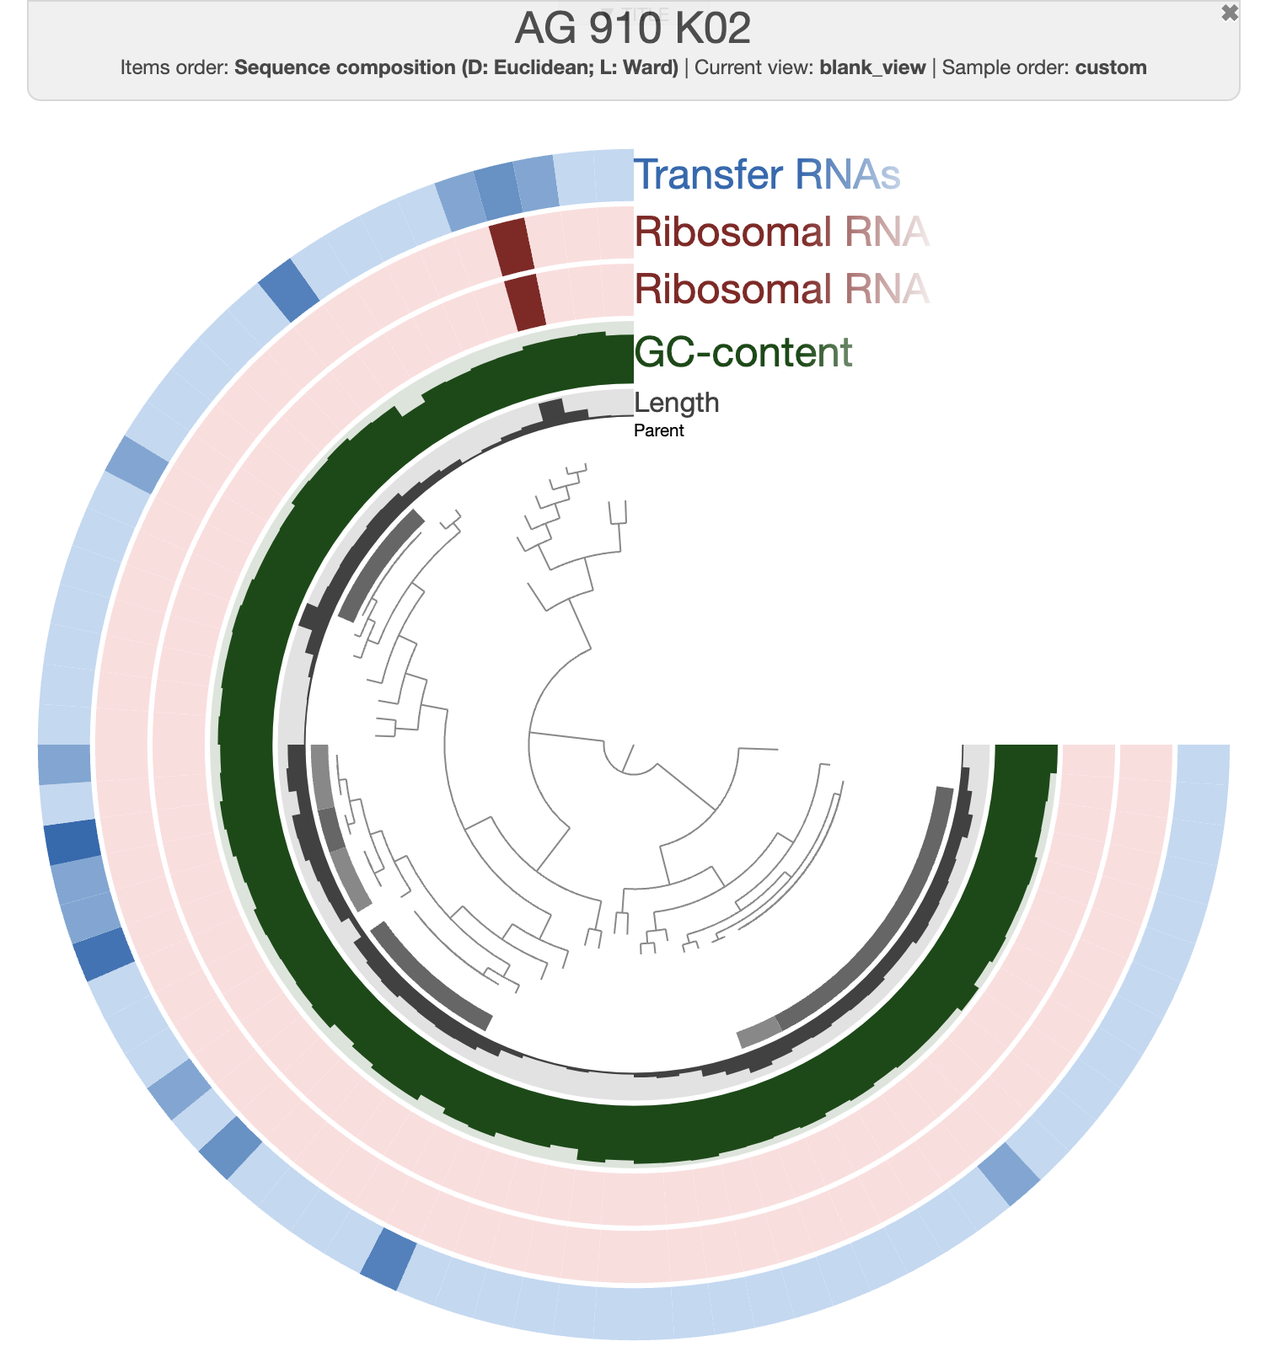
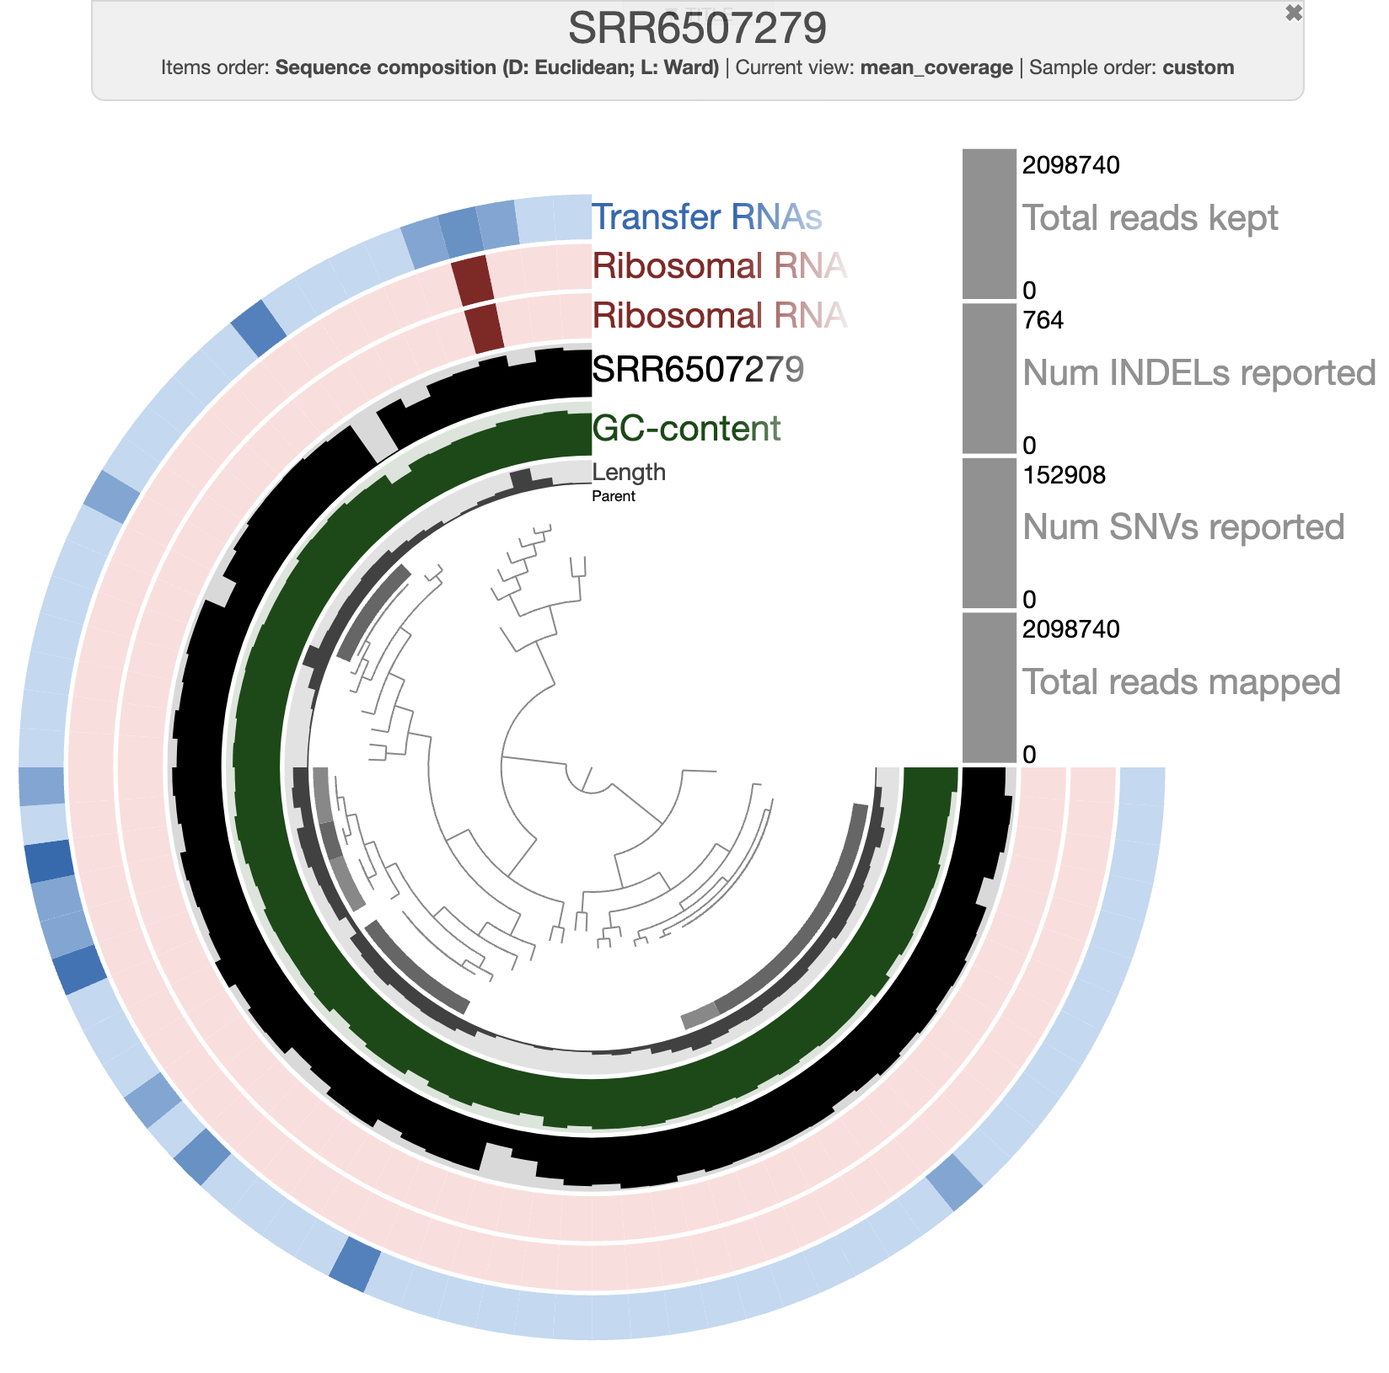
single cell tutorial update

diff --git a/tutorials/single-cell-genomics-workshop/index.md b/tutorials/single-cell-genomics-workshop/index.md
@@ -15,13 +15,11 @@ comments: true
 
 **The purpose of this workflow** is to learn how to integrate single-cell genomics data into the anvi'o environment. Here is a list of topics that are covered here:
 
- * Create a {% include ARTIFACT name="contigs-db" %} with one single amplified genome (SAG).
- * Use single-copy core genes to estimate completion and redundancy.
- * Assign taxonomy using single-copy core gene and [GTDB](https://gtdb.ecogenomic.org/).
- * Annotate open reading frames with function.
- * Make a phylogenomic tree.
- * Compute a pangenomic analysis.
- * Compare SAGs using average nucleotide identity.
+ * Create a {% include ARTIFACT name="contigs-db" %} and use functional and taxonomic assignment.
+ * Estimate taxonomy, completion/redudancy and metabolic pathway completeness across multiple SAG.
+ * Generate and decorate a phylogenomic tree using ribosomal proteins.
+ * Generate a pangenome and compare SAR11 SAGs with reference genome. Add ANI and metabolic information to the pangenome.
+ * Introduction to read recruitment of metagenome on a SAG.
 
  {:.notice}
  If you have any questions about this exercise, or have ideas to make it better, please feel free to get in touch with the anvi'o community through our Discord server:
@@ -38,7 +36,7 @@ comments: true
 First, open your terminal, `cd` to a working directory, and download the data pack we have stored online for you:
 
 ``` bash
-curl -L https://figshare.com/ndownloader/files/45398392 \
+curl -L https://figshare.com/ndownloader/files/45483060 \
     -o SCG_workshop.tar.gz
 ```
 
@@ -81,12 +79,12 @@ After clicking on the Draw button, you should see this:
 
 {% include IMAGE path="/images/single-cell-genomics-workshop/01_visualize_SAG_01.png" width=80 %}
 
-The organization of the contigs is based on their tetra-nucleotide frequency. The outer layers represent the GC content, presence of 16S and 23S rRNA as well as tRNAs.
+The organization of the contigs is based on their tetra-nucleotide frequency. The outer layers represent the GC content, presence of 16S and 23S rRNA as well as tRNAs. The black layers represent the mean coverage of the metagenome SRR6507279 (the metagenome associated with the sample use to generate the SAG).
 You can click on any part of the dendrogram to create bins. Go ahead and select all branches in the interface and go to the Bin's tab in the setting panel. There, you will see the total size of the bin you have just created. You will also see the completion and redundancy estimation.
 
 {% include IMAGE path="/images/single-cell-genomics-workshop/01_visualize_SAG_02.png" width=80 %}
 
-If you check the box for "Realtime taxonomy estimation for bins" you will even see the taxonomy estimation for your SAG. For more information you can click on "Recalculate/Show taxonomy for bins", there you will be able to see the detailed taxonomic assignation for each single-copy core genes were use for taxonomy estimation.
+If you check the box for "Realtime taxonomy estimation for bins" you will even see the taxonomy estimation for your SAG. For more information you can click on "Recalculate/Show taxonomy for bins", there you will be able to see the detailed taxonomic assignment for each single-copy core genes were use for taxonomy estimation.
 
 {% include IMAGE path="/images/single-cell-genomics-workshop/01_visualize_SAG_03.png" width=80 %}
 
@@ -94,9 +92,13 @@ Since we ran {% include PROGRAM name="anvi-run-ncbi-cogs" %} and {% include PROG
 
 {% include IMAGE path="/images/single-cell-genomics-workshop/01_visualize_SAG_04.png" width=80 %}
 
-Right click on the highlighted split and select "inspect split". I will open an inspection page as a new tab on your browser. The original purpose of that inspection page is to display the coverage plot if you have read-recruitment results and genomic context (ORF information, functions, blast option). Because we are using a blank {% include ARTIFACT name="profile-db" %}, there are no coverage plot to display. But we can still use this function to have a look at the ORFs found in this part of the SAG. If you click on the genes (arrows) you will see information about contig's position, length, orientation, DNA and AA sequence, quick blast options, and functional annotation if available.
+Right click on the highlighted split and select "inspect split". It will open an inspection page as a new tab on your browser. Here you will see the read coverage along a fraction of the genome:
 
 {% include IMAGE path="/images/single-cell-genomics-workshop/01_visualize_SAG_05.png" width=80 %}
+
+On the bottom part of the interface, you can see the ORFs and you can click on them to display information about contig's position, length, orientation, DNA and AA sequence, quick blast options, and functional annotation when available.
+
+{% include IMAGE path="/images/single-cell-genomics-workshop/01_visualize_SAG_06.png" width=80 %}
 
 {:.notice}
 The gene's arrows are colored based on their COG CATEGORY. If you want to change the colors, open the right side setting panel and scroll down to "Genes". Select how you want to color the genes. You can even change individual colors.
@@ -210,7 +212,7 @@ anvi-estimate-genome-completeness -c CONTIGS/AG-910-K02-contigs.db \
 ### Estimate SCGs taxonomy
 
 Now that we have identified the SCGs in our SAG, anvi'o can use the Genome Taxonomy Database (GTDB) and Diamond (a fast alternative to NCBI's BLASTp) to offer an insight into taxonomy.
-In a nutshell, anvi'o uses a set of SCGs (the ribosomal proteins) of the GTDB representative genome and their associated taxonomy (defined by GTDB). Each ribosomal protein gets a taxonomic assignation based on sequence similarity using [Diamond](https://github.com/bbuchfink/diamond).
+In a nutshell, anvi'o uses a set of SCGs (the ribosomal proteins) of the GTDB representative genome and their associated taxonomy (defined by GTDB). Each ribosomal protein gets a taxonomic assignment based on sequence similarity using [Diamond](https://github.com/bbuchfink/diamond).
 
 To be able to use this function in anvi'o, you must set up SCG taxonomy once on your machine by running the command {% include PROGRAM name="anvi-setup-scg-taxonomy" %}.
 
@@ -453,7 +455,7 @@ At this point, the interactive interface includes a table with over 200 columns,
 With the `--output-file` flag, you will save that table as a TAB-delimited file and import it in your favorite table-eating software like R, Python and others (we also use Excel sometimes). You will be able to compute the total size distribution of all the SAGs, calculate the average number of contigs, and select SAGs based on your favorite metric!
 
 
-#### Completeness and redundancy
+### Completeness and redundancy
 
 While {% include PROGRAM name="anvi-display-contigs-stats" %} was very happy to take as many contigs databases as possible, it is not the case with other programs in anvi'o.
 
@@ -531,7 +533,7 @@ sort -nrk4 completion-redundancy.txt | head -n 5 | cut -f 1 > five_most_complete
 </div>
 
 
-#### Taxonomy estimation
+### Taxonomy estimation
 
 Our next step is to investigate the taxonomy of all the SAGs. We need to use {% include PROGRAM name="anvi-estimate-scg-taxonomy" %}, which unfortunately does not use an external genomes file. No one is perfect, but you can find and shame an anvi'o developer by using the discord server, or [anvi'o github](https://github.com/merenlab/anvio) for a feature request like this.
 
@@ -579,6 +581,197 @@ AG_910_A15	6	4	Bacteria	Proteobacteria	Alphaproteobacteria	Pelagibacterales	Pela
 AG_910_A17	17	17	Bacteria	Proteobacteria	Alphaproteobacteria	Pelagibacterales	Pelagibacteraceae	Pelagibacter	None
 ---
 ```
+
+
+## Metabolic pathway completeness
+
+The program {% include PROGRAM name="anvi-estimate-metabolism" %} allows you to predict the metabolic capabilities of an organism. It is based on the [KEGG's module](https://www.genome.jp/kegg/module.html), but you can also use user-defined pathways. We will cover both in the next sections.
+
+
+### Estimate KEGG module completion
+
+{:.notice}
+This section of the tutorial is heavily inspired by [this comprehensive tutorial about metabolic reconstruction in anvi'o](https://anvio.org/tutorials/fmt-mag-metabolism/)
+
+{% include PROGRAM name="anvi-estimate-metabolism" %} can also use an {% include ARTIFACT name="external-genomes.txt" %} as an input parameter. This program can also output multiple type of tables and since we have multiple SAGs, we could be interested in a matrix-format table where SAGs are columns and rows are KEGG's module. The following command line also include the flag `--include-metadata` which will add a column with metadata for each module, like module name and category:
+```bash
+anvi-estimate-metabolism -e external-genomes-50.txt \
+                         -O SAG \
+                         --matrix-format \
+                         --include-metadata
+```
+
+That command generated 6 output files, including matrices of the stepwise and pathwise completeness and presence (which is a binary table based on your completion threshold); as well as a matrix of module's individual steps and the number of copies of each KOfam annotation.
+
+Let's visualize the matrix of the pathwise completion using {% include PROGRAM name="anvi-interactive" %} in manual mode:
+```bash
+anvi-interactive -d SAG-module_pathwise_completeness-MATRIX.txt \
+                 -p modules_heatmap.db \
+                 --manual \
+                 --title "Metabolism heatmap"
+```
+
+{% include IMAGE path="/images/single-cell-genomics-workshop/02_metabolism_01.png" width=80 %}
+
+To reproduce this figure, you will need to set the 'Drawing type' to phylogram, increase the width to ~15,000, and for each SAG layer you need to change the type to "intensity".
+
+To organize the data in a nicer way, we can cluster both the SAGs and the module based on the matrix value. First we can cluster the pathway so that metabolism with similar SAG distribution come together on the interactive interface. First, we need to remove the metadata columns because {% include PROGRAM name="anvi-matrix-to-newick" %} expects only numbers in the input:
+
+```bash
+cut -f1,6- SAG-module_pathwise_completeness-MATRIX.txt > SAG-module_pathwise_completeness-MATRIX-NO-METADATA.txt
+anvi-matrix-to-newick SAG-module_pathwise_completeness-MATRIX-NO-METADATA.txt -o module_organization.newick
+```
+
+Now we can transpose the table and do the same for the SAG organisation:
+```bash
+anvi-script-transpose-matrix SAG-module_pathwise_completeness-MATRIX-NO-METADATA.txt \
+                             -o SAG-module_pathwise_completeness-MATRIX-NO-METADATA-TRANSPOSE.txt
+anvi-matrix-to-newick SAG-module_pathwise_completeness-MATRIX-NO-METADATA-TRANSPOSE.txt -o SAG_organization.newick
+```
+
+We have now two dendrogram fro each side of our heatmap and we can integrate them to the interactive interface. We can import the `module_organisation.newick` using {% include PROGRAM name="anvi-import-items-order" %}:
+```bash
+anvi-import-items-order -i module_organization.newick \
+                        -p modules_heatmap.db \
+                        --name module_organization
+```
+
+In the interface, the SAG are present in the "layer" section. So we need to use a different command to import `SAG_organization.newick`: {% include PROGRAM name="anvi-import-misc-data" %}:
+```bash
+# format the input data a bit
+TREE=$(cat SAG_organization.newick)
+echo -e "item_name\tdata_type\tdata_value\nSAG_organization\tnewick\t$TREE" > layer_order.txt
+# import into the database
+anvi-import-misc-data -p modules_heatmap.db \
+                      -t layer_orders \
+                      layer_order.txt
+```
+
+But why stop here? Let's add the SAG's taxonomy:
+```bash
+anvi-import-misc-data -p modules_heatmap.db \
+                      -t layers \
+                      taxonomy.txt
+```
+
+And now we can re-run the interactive interface again:
+```bash
+anvi-interactive -d SAG-module_pathwise_completeness-MATRIX.txt \
+                 -p modules_heatmap.db \
+                 --manual \
+                 --title "Metabolism heatmap"
+```
+
+In the main panel, you can change the "Items order" to "Module organization" and in the layer panel, you can now choose to order by "SAG_organization". And here is what you should be able to see:
+
+{% include IMAGE path="/images/single-cell-genomics-workshop/02_metabolism_02.png" width=80 %}
+
+We can easily see a cluster of 5 SAGs, which possess a distinctive group of module. If you change the module name layer from color to text, or if you use the "mouse" panel and hover over the corresponding module, you will see module like "Photosystem II" and other electron transfer pathways that likely indicate that these SAGs are Cyanobacteria. And if you look at the taxonomy data on the right side of the heatmap, you will see that indeed these 5 SAGs are assigned to the *Prochlorococcus* genus.
+
+{% include IMAGE path="/images/single-cell-genomics-workshop/02_metabolism_03.png" width=80 %}
+
+
+### User defined pathways
+
+Are you familiar with the marine methane paradox? Because I didn't know about it before writing this tutorial. I learn about is while reading this [paper by Carini et al. 2014](https://doi.org/10.1038/ncomms5346). Basically, methane is actually supersaturated in the surface ocean compared to the atmosphere, and it is due to biological activity. Methylphosphonic acid is produced by marine archaea and under phosphate limitation, some bacteria like *Pelagibacter* are able to uptake and process methylphosphonic acid which releases methane. Two operons have been identified for the transport and process of methylphosphonic acid: PhnCDEE and PhnGHIJKLNM.
+
+At the very beginning of this tutorial, we visually inspected a SAG and we looked for the phosphate transporter operon (pstSCAB). So now we have three operons for two types of phosphate uptake and utilization. These genes are annotated by KEGG (and COG) but are not part of the KEGG's module and we cannot simply search for the completeness of these transporters in the default output of {% include program name="anvi-estimate-metabolism" %}. Fortunately for us, we can create our own metabolism module in anvi'o and use {% include PROGRAM name="anvi-estimate-metabolism" %} to get the completeness and copy number of a user-defined metabolic module.
+
+Let's create three user-defined module/pathway for the three operons pstSCAB, PhnCDEE and PhnGHIJKLNM. At the moment, the user-defined module in anvi'o follow the same (annoying) structure as KEGG module.
+We need to create three files, one for each module. Use your favorite text editor and create the following file:
+
+`pstSCAB.txt`
+```
+ENTRY       pstSCAB
+NAME        Pi Transport
+DEFINITION  COG0226 COG0573 COG0581 COG1117
+ORTHOLOGY   COG0226  pstS
+            COG0573  pstC
+            COG0581  pstA
+            COG1117  pstB
+CLASS       User modules; Transport System; Pi Transport
+ANNOTATION_SOURCE  COG0226  COG20_FUNCTION
+                   COG0573  COG20_FUNCTION
+                   COG0581  COG20_FUNCTION
+                   COG1117  COG20_FUNCTION
+///
+```
+`PhnCDE.txt`
+```
+ENTRY       PhnCDEE
+NAME        Organophosphorus Transport
+DEFINITION  COG3638 COG3221 COG3639
+ORTHOLOGY   COG3638  PhnC
+            COG3221  PhnD
+            COG3639  PhnE
+CLASS       User modules; Transport System; Organophosphorus Transport
+ANNOTATION_SOURCE   COG3638  COG20_FUNCTION
+                    COG3221  COG20_FUNCTION
+                    COG3639  COG20_FUNCTION
+///
+```
+`PhnGHIJKLNM.txt`
+```
+ENTRY       PhnGHIJKLNM
+NAME        Phosphonate Utilization
+DEFINITION  COG3624 COG3625 COG3626 COG3627 COG4107 COG4778 COG3709 COG3454
+ORTHOLOGY   COG3624  PhnG
+            COG3625  PhnH
+            COG3626  PhnI
+            COG3627  PhnJ
+            COG4107  PhnK
+            COG4778  PhnL
+            COG3709  PhnN
+            COG3454  PhnM
+CLASS       User modules; Transport System; Phosphonate Utilization
+ANNOTATION_SOURCE   COG3624  COG20_FUNCTION
+                    COG3625  COG20_FUNCTION
+                    COG3626  COG20_FUNCTION
+                    COG3627  COG20_FUNCTION
+                    COG4107  COG20_FUNCTION
+                    COG4778  COG20_FUNCTION
+                    COG3709  COG20_FUNCTION
+                    COG3454  COG20_FUNCTION
+///
+```
+
+Now we need to setup these module so we can use them in anvi'o using {% include PROGRAM name="anvi-setup-user-modules" %}. For that we need to create a special directory structure:
+```bash
+mkdir CUSTOM_PATHWAYS
+mkdir CUSTOM_PATHWAYS/modules
+mv pstSCAB.txt CUSTOM_PATHWAYS/modules/
+mv PhnCDE.txt CUSTOM_PATHWAYS/modules/
+mv PhnGHIJKLNM.txt CUSTOM_PATHWAYS/modules/
+```
+
+Then we can run {% include PROGRAM name="anvi-setup-user-modules" %}, which will generate a {% include ARTIFACT name="modules-db" %}:
+```bash
+anvi-setup-user-modules -u CUSTOM_PATHWAYS/
+```
+
+Finally, we can use {% include ARTIFACT name="external-genomes" %} with our user-defined module and investigate the presence and completeness of our phosphate transport among all the SAGs with a minimum of 50% completion estimation:
+```bash
+anvi-estimate-metabolism -e external-genomes-50.txt \
+                         -O phostphate-transporter \
+                         -u CUSTOM_PATHWAYS/ \
+                         --only-user-modules
+```
+
+At the beginning of the tutorial, we looked at SAG AG-910-K02 and in the output files we can see that the pstSCAB transporter is indeed complete, but that SAG does not have the methylphosphonic acid transporter. Difficult to say if it is truly lacking the transporter or if it is a limitation of an incomplete SAG.
+
+|**module**|**genome_name**|**db_name**|**module_name**|**module_class**|**module_category**|**module_subcategory**|**module_definition**|**stepwise_module_completeness**|**stepwise_module_is_complete**|**pathwise_module_completeness**|**pathwise_module_is_complete**|**proportion_unique_enzymes_present**|**enzymes_unique_to_module**|**unique_enzymes_hit_counts**|**enzyme_hits_in_module**|**gene_caller_ids_in_module**|**warnings**|
+|:--|:--|:--|:--|:--|:--|:--|:--|:--|:--|:--|:--|:--|:--|:--|:--|:--|:--|
+|pstSCAB.txt|AG_910_K02|AG_910_K02|Pi Transport|User modules|Transport System|Pi Transport|"COG0226 COG0573 COG0581 COG1117"|1.0|True|1.0|True|1.0|COG0226,COG0573,COG0581,COG1117|1,1,1,1|COG0226,COG0573,COG0581,COG1117|745,744,743,742|None|
+
+The SAG AG-910-F07 is also a *Pelagibacter* like AG-910-K02, and it has both transporter:
+
+|**module**|**genome_name**|**db_name**|**module_name**|**module_class**|**module_category**|**module_subcategory**|**module_definition**|**stepwise_module_completeness**|**stepwise_module_is_complete**|**pathwise_module_completeness**|**pathwise_module_is_complete**|**proportion_unique_enzymes_present**|**enzymes_unique_to_module**|**unique_enzymes_hit_counts**|**enzyme_hits_in_module**|**gene_caller_ids_in_module**|**warnings**|
+|:--|:--|:--|:--|:--|:--|:--|:--|:--|:--|:--|:--|:--|:--|:--|:--|:--|:--|
+|pstSCAB.txt|AG_910_F07|AG_910_F07|Pi Transport|User modules|Transport System|Pi Transport|"COG0226 COG0573 COG0581 COG1117"|1.0|True|1.0|True|1.0|COG0226,COG0573,COG0581,COG1117|1,1,1,1|COG0226,COG0573,COG0581,COG1117|886,887,888,889|None|
+|PhnGHIJKLNM.txt|AG_910_F07|AG_910_F07|Phosphonate Utilization|User modules|Transport System|Phosphonate Utilization|"COG3624 COG3625 COG3626 COG3627 COG4107 COG4778 COG3709 COG3454"|1.0|True|1.0|True|1.0|COG3454,COG3624,COG3625,COG3626,COG3627,COG3709,COG4107,COG4778|1,1,1,1,1,1,1,1|COG3454,COG3624,COG3625,COG3626,COG3627,COG3709,COG4107,COG4778|334,326,327,328,329,332,330,331|None|
+|PhnCDE.txt|AG_910_F07|AG_910_F07|Organophosphorus Transport|User modules|Transport System|Organophosphorus Transport|"COG3638 COG3221 COG3639"|1.0|True|1.0|True|1.0|COG3221,COG3638,COG3639|1,1,2|COG3221,COG3638,COG3639,COG3639|323,324,321,322|None|
+
+This output file will be very interesting later as we will generate a pangenome of SAR11 SAGs and we can decorate that pangenome with the presence/absence of the transporter and discuss its evolutionary distribution in SAR11.
 
 
 ### More?
@@ -984,6 +1177,46 @@ You can always import that tree into an existing pangenome with {% include PROGR
 
  </div>
 
+
+### Exploratory analysis: phosphate transporters
+
+Following up to the [earlier section of this tutorial] where we created user-defined module for two phosphate transporters and utilization operons, we can run {% include PROGRAM name="anvi-estimate-metabolism" %} again using the {% include ARTIFACT name="external-genomes" %} `external-genomes-pangenomics.txt` (which includes the two reference genomes). And then display the result on the pangenome itself:
+
+```bash
+anvi-estimate-metabolism -e external-genomes-pangenomics.txt \
+                         -O phostphate-transporter-pan \
+                         -u CUSTOM_PATHWAYS/ \
+                         --matrix-format \
+                         --only-user-modules
+```
+
+We need to reformat the data a little bit, and then we can import it in our pangenome database:
+```bash
+anvi-script-transpose-matrix phostphate-transporter-pan-module_pathwise_completeness-MATRIX.txt \
+                             -o phostphate-transporter-layers.txt
+# replace the header "module" to "layers"
+sed 's/module/layers/' phostphate-transporter-layers.txt > tmp && mv tmp phostphate-transporter-layers.txt
+# rename the module's names
+sed 's/\.txt//g' phostphate-transporter-layers.txt > tmp && mv tmp phostphate-transporter-layers.txt
+# import the layers data
+anvi-import-misc-data -p PANGENOMICS/SAR11-PAN.db \
+                      -t layers \
+                      phostphate-transporter-layers.txt
+```
+
+Now we can re-run the pangenome interactive interface:
+```bash
+anvi-display-pan -g PANGENOMICS/SAR11-GENOMES.db \
+                 -p PANGENOMICS/SAR11-PAN.db
+```
+
+{:.notice}
+You can change the size and color of the newly added layers in the "layer" panel. In this case, I changed the type to "intensity", resized to 300 and colored them.
+
+{% include IMAGE path="/images/single-cell-genomics-workshop/04_pangenomics_13.png" width=80 %}
+
+From my understanding, all SAR11 should have the pstSCAB transporter and we can see that most SAG have that operon. Some are missing it, and it is likely because of the genome's incompletion.
+But only some SAG/reference genome have the transporter (PhnCDE) and utilization (PhnGHIJKLNM) for methylphosphonic acid. Interestingly, HIMB083 only have the transporter but is lacking the utilization operon. There is a lot to investigate here, beyond the scope of this tutorial. One could investigate if the Phn operons always occur in the same conserved genome region: you can search for the genes in the interface, highlight the gene clusters, and re-order the pangenome using the synteny and see if there are any conserved genes cluster surrounding the Phn operons. Or use a pangraph approach 😉.
 
 ## Read recruitment
 
